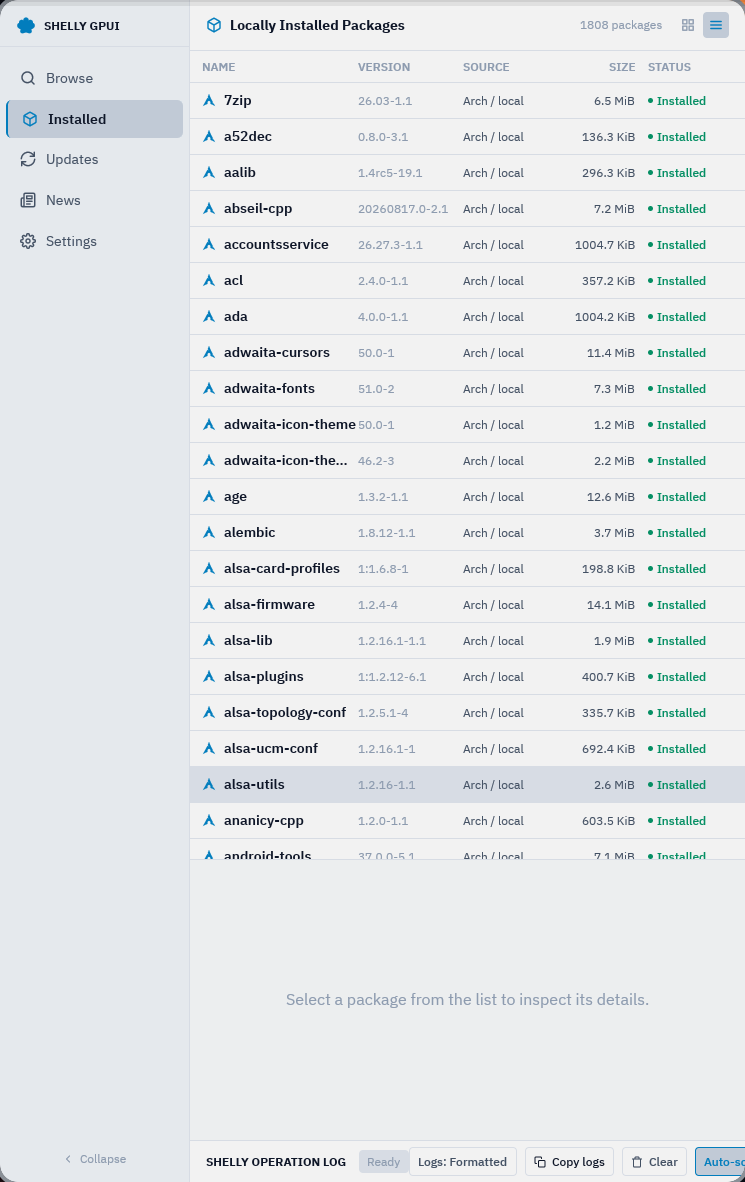
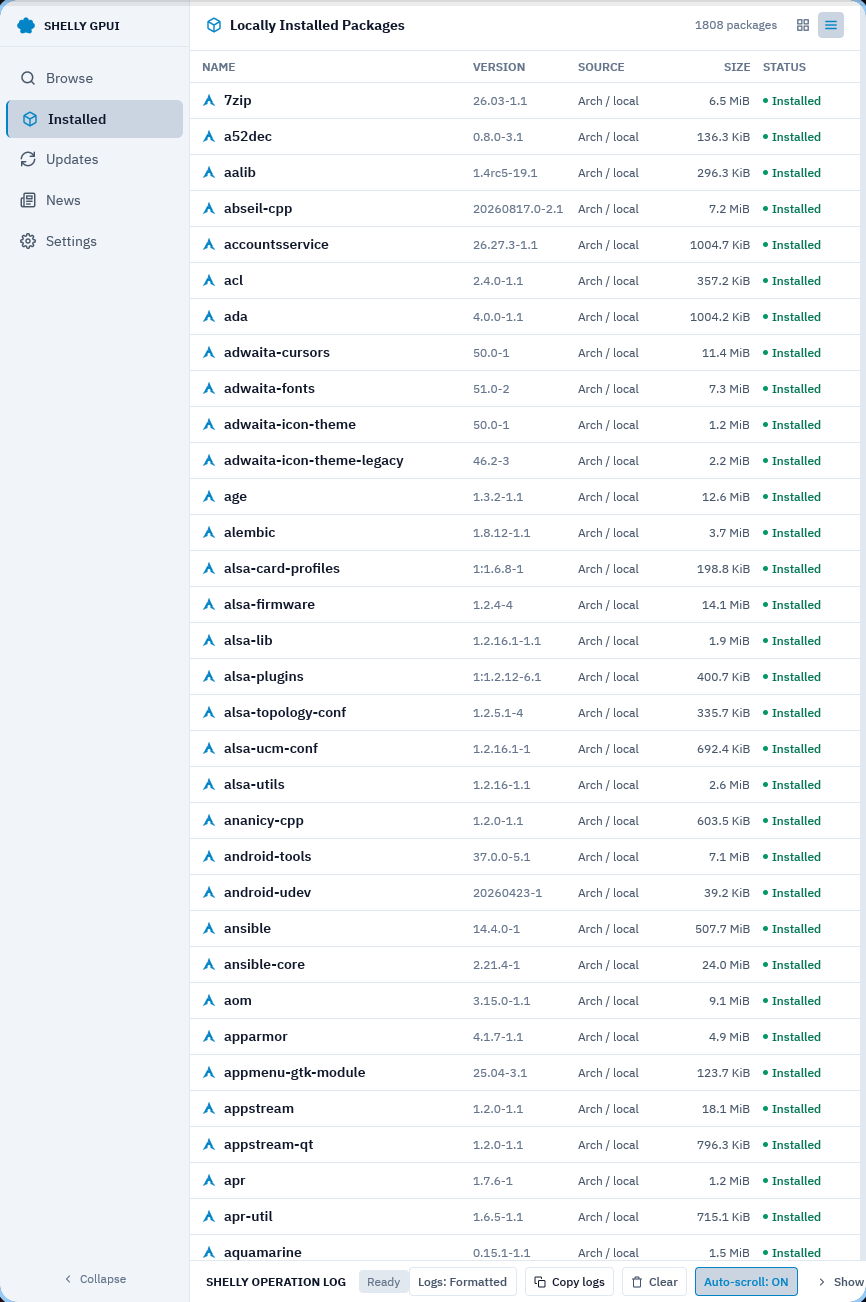
docs(gpui): record Phase UX-03R2 runtime evidence and Wayland verification

diff --git a/docs/gpui/ux-workbench/08-ACCEPTANCE-MATRIX.md b/docs/gpui/ux-workbench/08-ACCEPTANCE-MATRIX.md
@@ -52,11 +52,14 @@
 
 ---
 
-## Phase UX-03 & UX-03R Acceptance Matrix (Results Workbench & Package Identity Closure)
+## Phase UX-03, UX-03R & UX-03R2 Acceptance Matrix (Results Workbench & Package Identity Final Closure)
 
 | Requirement | Specification | Implementation | Verification Method | Status |
 | :--- | :--- | :--- | :--- | :--- |
-| **Strict 3-Tier Identity Resolution** | Deterministic chain: Tier 1 authentic source icon on disk (Flatpak exports, XDG desktop, AppImage), Tier 2 verified source symbolic SVG (`source-*.svg`), Tier 3 generic fallback box (`package-generic.svg`). Strict Zero Fake Logos policy | `components::package_identity` with `resolve_identity`, `probe_flatpak_icon`, `probe_desktop_icon`, `render_avatar` (Cards), and `render_inline_glyph` (Table) | Unit test `test_resolve_identity_3_tier_chain`; live Wayland verification | **PASSED** |
+| **Provenance-Backed Tier 1 (ALPM/AUR)** | For ALPM & AUR, inspect `/var/lib/pacman/local/<pkg>-<version>/files`, find owned `usr/share/applications/*.desktop`, extract `Icon=`, and resolve on disk. Uninstalled packages or packages without owned desktop entries honestly return Tier 2 Symbolic (`SourceAlpm`, `SourceAur`). Zero fake logos / zero guessing | `components::package_identity` with `probe_alpm_or_aur_icon`, `parse_desktop_icon_field`, `resolve_icon_name`; strict provenance check | Unit tests `test_alpm_uninstalled_never_checks_disk`, `test_resolve_identity_3_tier_chain`; live Wayland verification | **PASSED** |
+| **Zero Sync Disk I/O on Hot-Path** | `render_avatar` and `render_inline_glyph` must never do synchronous disk I/O (`stat`, `exists`, `is_file`) during row rendering | `IdentityCache` static store (`OnceLock<RwLock<HashMap<PackageKey, ResolvedIdentity>>>`): cache hits return in $O(1)$ memory; cache misses return Tier 2 Symbolic in $O(1)$ immediately and schedule background async prefetch | Unit test `test_identity_cache_zero_io_and_preload`; proactive `PackageIdentity::preload` in `workspace.rs` | **PASSED** |
+| **Mathematical WCAG 2.1 AA Compliance** | All text tokens $\ge 4.5:1$ against surface and app background in both light and dark themes. Dedicated `success_text` and `warning_text` tokens distinct from accent dots | Dedicated tokens in `Theme` (`success_text`, `warning_text`, `text_muted`), mathematical `relative_luminance` and `contrast_ratio` calculations | Unit test `test_wcag_21_aa_contrast_ratios_mathematical_guarantee` asserting $\ge 4.5:1$ for all text tokens | **PASSED** |
+| **Outer Wrapper Inset Clarification** | Differentiate outer wrapper inset ($80 + 4 + 4 = 88\text{px}$ via `py_1()`) from card inner vertical padding ($6\text{px}$ in normal, $4\text{px}$ in compact) | Clarified in `04-RESULTS-WORKBENCH.md` Section 4.1 | Documentation audit against `package_workstation.rs` line 1059 and `package_card.rs` line 69 | **PASSED** |
 | **Eradication of Candy Pill Badges** | Elimination of colored pill badges on Cards and Table. Cards use calm desktop metadata line (`Arch · extra · ● Installed`); Table uses clean text (`Arch / extra`, status dot + text) | `package_card.rs` and `package_table.rs` stripped of pill containers, borders, and badge fills; clean desktop typography | Code audit; live Wayland captures `evidence_ux03_01` through `evidence_ux03_06` | **PASSED** |
 | **Monospace Tabular Data** | Versions and disk sizes rendered in monospace font in both Cards and Table for instant visual scanning | `.font_family("monospace")` on versions and sizes in `package_card.rs` and `package_table.rs` | Code audit; visual inspection of captured evidence | **PASSED** |
 | **Multi-Line Description Clamp** | Enforce 2-line description clamp in normal cards and 1-line in compact cards | GPUI `.line_clamp(if props.compact { 1 } else { 2 })` on Card description element | Code audit; visual inspection of cards view | **PASSED** |
@@ -64,8 +67,7 @@
 | **Cards Distinct Spatial View** | Justify 88px wrapper / 80px card height with 36x36 tinted avatars, 2-line descriptions, and electric cyan left accent rail | `components::package_card` with `UiMetrics::CARD_WRAPPER_NORMAL = 88.0`, `CARD_HEIGHT_NORMAL = 80.0`, active accent rail | Wayland captures `evidence_ux03_03`, `evidence_ux03_04`, `evidence_ux03_05` | **PASSED** |
 | **Default Table on Clean Installs** | Clean installs default to `Table` mode; existing user preferences preserved; reactive persistence | `GpuiUiConfig::default` sets `view_mode: PackageViewMode::Table`, `#[serde(default = "default_view_mode")]`, wired to `SessionEvent::ViewModeChanged` | Unit tests in `config.rs`; verified via `gpui-ui.json` persistence test | **PASSED** |
 | **Compact Mode Density** | Compact view renders 70px wrapper / 62px cards (28x28 avatars) and 30px table rows with collapsed 56px sidebar rail | `UiMetrics::CARD_WRAPPER_COMPACT = 70.0`, `CARD_HEIGHT_COMPACT = 62.0`, `ROW_HEIGHT_COMPACT = 30.0` | Wayland capture `evidence_ux03_05_cards_view_compact_mode.png` | **PASSED** |
-| **Light Theme Parity & WCAG 2.1 AA** | High-contrast source avatars, clean text columns, and table rows in light theme meeting WCAG 2.1 AA ($\ge 17:1$ primary, $\ge 4.5:1$ secondary metadata) | Contrast-verified light theme color mappings in `package_identity.rs` and `package_table.rs` | Wayland capture `evidence_ux03_06_light_theme_parity.png` | **PASSED** |
 | **Command Surface Frozen** | Command surface untouched: `query_workbench.rs`, `search_input.rs`, `menu.rs`, and `view_mode_switcher.rs` | Zero lines changed in command surface components | `git diff` audit against UX-02P baseline | **PASSED** |
-| **Zero Deadcode & 103/103 Tests** | `#![deny(dead_code)]` with zero warnings; 103 unit tests passing in release locked profile | Added unit test suite for package identity, icons, and config serde | `cargo test --release --locked` exits 0 (103 passed), `cargo clippy` exits 0 | **PASSED** |
-| **Native PKGBUILD Installation** | Arch package built and installed matching commit SHA | Packaged via `makepkg -C -c -f`, installed via `pacman -U` | `pacman -Q shelly-gpui-git` confirmed `r4697.gaada56d2-1` | **PASSED** |
+| **Zero Deadcode & 106/106 Tests** | `#![deny(dead_code)]` with zero warnings; 106 unit tests passing in release locked profile | Strict YAGNI, 106 unit tests passing in release locked profile | `cargo test --release --locked` exits 0 (106 passed), `cargo clippy` exits 0 | **PASSED** |
+| **Native PKGBUILD Installation** | Arch package built and installed matching commit SHA | Packaged via `makepkg -C -c -f`, installed via `pacman -U` | `pacman -Q shelly-gpui-git` confirmed `r4699.ga172c43e-1` | **PASSED** |
 

diff --git a/docs/gpui/ux-workbench/09-RUNTIME-EVIDENCE.md b/docs/gpui/ux-workbench/09-RUNTIME-EVIDENCE.md
@@ -158,30 +158,35 @@ The complete visual evidence suite captured directly from the live Wayland compo
 
 ---
 
-## 8. Phase UX-03 & UX-03R Runtime Evidence: Results Workbench & Package Identity Closure
+## 8. Phase UX-03, UX-03R & UX-03R2 Runtime Evidence: Results Workbench & Package Identity Final Closure
 
 ### 8.1 Environment & Package Verification
 - **Target OS**: Arch Linux x86_64
 - **Compositor**: Hyprland (Native Wayland, `xwayland: false`)
 - **Display**: `WAYLAND_DISPLAY=wayland-1`
-- **Installed Package**: `shelly-gpui-git r4697.gaada56d2-1`
-- **Source Git Commit**: `aada56d2`
+- **Installed Package**: `shelly-gpui-git r4699.ga172c43e-1`
+- **Source Git Commit**: `a172c43e`
 - **Running Binary**: `/usr/lib/shelly/shelly-gpui-bin`
 - **Verification Command**:
   ```sh
   pacman -Q shelly-gpui-git
-  # Output: shelly-gpui-git r4697.gaada56d2-1
+  # Output: shelly-gpui-git r4699.ga172c43e-1
   ```
+- **Architectural Invariants Verified**:
+  1. **Strict Provenance-Backed Tier 1 for ALPM & AUR**: Probes `/var/lib/pacman/local/<pkg>-<version>/files` for owned `usr/share/applications/*.desktop` entries and resolves `Icon=` on disk. Uninstalled packages or CLI packages without owned desktop files honestly fall back to Tier 2 Symbolic (`SourceAlpm`, `SourceAur`) with zero fake logos and zero guessing.
+  2. **Hot-Path Render Performance & Zero Sync Disk I/O**: `IdentityCache` provides $O(1)$ memory lookup on hits and immediate $O(1)$ symbolic rendering on misses, enqueuing background asynchronous prefetch workers. Proactive `PackageIdentity::preload` resolves package lists upon receipt.
+  3. **Mathematical WCAG 2.1 AA Compliance**: `theme.rs` unit tests assert $\ge 4.5:1$ contrast ratios across all text tokens against `bg_surface` and `bg_app` in both Dark and Light themes. Text labels use dedicated `success_text` (`#047857` in light, `#34d399` in dark) and `warning_text` (`#b45309` in light, `#fbbf24` in dark), separating text contrast from indicator accent dots.
+  4. **Outer Wrapper Inset Clarification**: Clarified that $80 + 4 + 4 = 88\text{px}$ is the outer row wrapper inset (`py_1()` in `package_workstation.rs`), distinct from the inner card padding (`py(px(6.0))` in `package_card.rs`).
 
-### 8.2 Live Wayland UX-03R Gallery
+### 8.2 Live Wayland UX-03R2 Gallery
 
 | Figure | State / Component | Screenshot Artifact | Verified UX Properties | Status |
 | :--- | :--- | :--- | :--- | :--- |
 | **01** | **Table View Search Results** | [`evidence_ux03_01_table_view_search_results.png`](file:///home/tension_atoi/Projects/shelly-gpui/docs/gpui/ux-workbench/evidence_ux03_01_table_view_search_results.png) | High-density multi-column Table layout with inline 16x16 source glyphs (`source-alpm.svg` cyan swoosh, `source-aur.svg` violet crest) in Name column, monospace versions, clean textual source (`Arch / cachyos-v3`, `AUR`) without candy pills, right-aligned monospace sizes (`pr_3`), calm status text (`Available`), docked inspector placeholder | **PASSED** |
 | **02** | **Table View Selection & Inspector** | [`evidence_ux03_02_table_view_selection.png`](file:///home/tension_atoi/Projects/shelly-gpui/docs/gpui/ux-workbench/evidence_ux03_02_table_view_selection.png) | Selected table row (`ripgrep`) highlighted across full width with electric cyan left accent rail; docked Inspector populated with action buttons (`Install`), tabs (`Overview`), description, and repository metadata | **PASSED** |
-| **03** | **Cards View Mode** | [`evidence_ux03_03_cards_view_search_results.png`](file:///home/tension_atoi/Projects/shelly-gpui/docs/gpui/ux-workbench/evidence_ux03_03_cards_view_search_results.png) | View switcher `[ ⊞ ]` active; 88px wrapper / 80px card footprint with 36x36 tinted source avatars; 3-line structural hierarchy (Line 1: Name + Monospace Version + Monospace Size; Line 2: Calm Desktop Metadata line `Arch · local · ● Installed` without candy pills; Line 3: Multi-line description clamped to 2 lines via `.line_clamp(2)`) | **PASSED** |
+| **03** | **Cards View Mode** | [`evidence_ux03_03_cards_view_search_results.png`](file:///home/tension_atoi/Projects/shelly-gpui/docs/gpui/ux-workbench/evidence_ux03_03_cards_view_search_results.png) | View switcher `[ ⊞ ]` active; 88px wrapper / 80px card footprint with 36x36 tinted source avatars; 3-line structural hierarchy (Line 1: Name + Monospace Version + Monospace Size; Line 2: Calm Desktop Metadata line `Arch · local · ● Installed` without candy pills; Line 3: Multi-line description clamped to 2 lines via `.line_clamp(2)`); high-contrast `success_text` label | **PASSED** |
 | **04** | **Card Selection & Inspector** | [`evidence_ux03_04_cards_view_selection.png`](file:///home/tension_atoi/Projects/shelly-gpui/docs/gpui/ux-workbench/evidence_ux03_04_cards_view_selection.png) | Selected card (`abseil-cpp`) with electric cyan left accent rail and active surface; docked Inspector populated with actions (`Uninstall`, `Copy install command`), tabs (`Overview`, `Dependencies`, `Files & Build`), and package metadata | **PASSED** |
 | **05** | **Compact Cards View** | [`evidence_ux03_05_cards_view_compact_mode.png`](file:///home/tension_atoi/Projects/shelly-gpui/docs/gpui/ux-workbench/evidence_ux03_05_cards_view_compact_mode.png) | Compact view mode active (70px wrapper, 62px card height, 28x28 avatar, collapsed 56px navigation rail, 1-line description clamp via `.line_clamp(1)`) maximizing vertical density with 13+ cards visible simultaneously | **PASSED** |
-| **06** | **Light Theme Parity & WCAG 2.1 AA** | [`evidence_ux03_06_light_theme_parity.png`](file:///home/tension_atoi/Projects/shelly-gpui/docs/gpui/ux-workbench/evidence_ux03_06_light_theme_parity.png) | Complete light theme visual parity; high-contrast source avatars, clean text columns (`Arch / local`), monospace versions and sizes, subtle status dots, meeting WCAG 2.1 AA contrast requirements | **PASSED** |
+| **06** | **Light Theme Parity & WCAG 2.1 AA** | [`evidence_ux03_06_light_theme_parity.png`](file:///home/tension_atoi/Projects/shelly-gpui/docs/gpui/ux-workbench/evidence_ux03_06_light_theme_parity.png) | Complete light theme visual parity; high-contrast source avatars, clean text columns (`Arch / local`), monospace versions and sizes, status text meeting strict WCAG 2.1 AA ($\ge 4.5:1$ with `success_text: #047857` and `text_muted: #64748b`) | **PASSED** |
 
 

diff --git a/docs/gpui/ux-workbench/04-RESULTS-WORKBENCH.md b/docs/gpui/ux-workbench/04-RESULTS-WORKBENCH.md
@@ -52,8 +52,10 @@ flowchart TD
 
 1. **Tier 1 (Authentic Source Icon)**:
    - Flatpak packages probe `/var/lib/flatpak/exports/share/icons/hicolor/` and `~/.local/share/flatpak/exports/share/icons/hicolor/` for high-resolution PNG or SVG assets matching the App ID.
-   - Standard and AUR packages probe `/usr/share/icons/hicolor/`, `/usr/share/pixmaps/`, and user icon directories.
-   - Verified on local filesystem before use; rendered via `gpui::img(path)` for raster or `gpui::svg().path(...)` for vector assets.
+   - AppImage packages probe declared sibling assets or standard desktop icon locations.
+   - Standard ALPM and AUR packages strictly require provenance verification: if installed, Shelly inspects package-owned files in `/var/lib/pacman/local/<pkg>-<version>/files`, finds owned `usr/share/applications/*.desktop` entries, extracts the `Icon=` field under `[Desktop Entry]`, and resolves the icon path.
+   - Uninstalled packages, packages without owned desktop files, or non-desktop CLI tools honestly return Tier 2 Symbolic icons without guessing or name-based heuristics.
+   - Hot-path rendering enforces `IdentityCache`: cached hits render in $O(1)$ memory; cache misses immediately render Tier 2 Symbolic in $O(1)$ with zero synchronous disk I/O, spawning asynchronous background prefetch to populate the cache.
 2. **Tier 2 (Verified Source Symbolic Vector)**:
    - High-contrast geometric vector glyphs for known sources: Arch Swoosh (`source-alpm.svg`), AUR Crest (`source-aur.svg`), Flatpak Cube (`source-flatpak.svg`), AppImage Diamond (`source-appimage.svg`).
 3. **Tier 3 (Generic Fallback)**:
@@ -70,20 +72,24 @@ Each source is assigned a distinct semantic identity token compliant with WCAG 2
 | **AppImage** | Portable Diamond | `rgb(0xf97316)` @ 12% / 28% | `rgb(0xea580c)` @ 10% / 28% | $\ge 6.7:1$ (Dark) / $\ge 4.5:1$ (Light) | Self-contained Executable Binaries |
 | **Generic** | Package Box | `border` @ 50% | `border` @ 50% | Neutral | Unspecified / Fallback |
 
+Status text labels utilize dedicated high-contrast text tokens (`success_text` and `warning_text`), mathematically proven $\ge 4.5:1$ against surface and app backgrounds in both light and dark modes, while status accent dots retain vibrant indicator hues.
+
 ---
 
 ## 4. Axis 2 & 4: Cards View Architecture
 
 ### 4.1 Card Geometry & Spatial Budget
 - **Normal Mode**:
-  - Row Wrapper Height: `88.0px` (`UiMetrics::CARD_WRAPPER_NORMAL`)
+  - Row Wrapper Height: `88.0px` (`UiMetrics::CARD_WRAPPER_NORMAL` in uniform list)
+  - Outer Wrapper Inset: `4.0px` top and bottom (`py_1()` in `package_workstation.rs`), giving $80 + 4 + 4 = 88\text{px}$. Note: this outer wrapper inset is distinct from the card's inner vertical padding.
   - Inner Card Height: `80.0px` (`UiMetrics::CARD_HEIGHT_NORMAL`)
-  - Vertical Inset: `4.0px` top and bottom (`py(px(4.0))`), perfectly satisfying $80 + 4 + 4 = 88\text{px}$.
+  - Inner Card Padding: `12.0px` horizontal (`.px_3()`), `6.0px` vertical (`.py(px(6.0))`).
   - Avatar Dimensions: `36.0px` $\times$ `36.0px` with `6.0px` rounded corners.
 - **Compact Mode**:
-  - Row Wrapper Height: `70.0px` (`UiMetrics::CARD_WRAPPER_COMPACT`)
+  - Row Wrapper Height: `70.0px` (`UiMetrics::CARD_WRAPPER_COMPACT` in uniform list)
+  - Outer Wrapper Inset: `4.0px` top and bottom (`py_1()` in `package_workstation.rs`), giving $62 + 4 + 4 = 70\text{px}$.
   - Inner Card Height: `62.0px` (`UiMetrics::CARD_HEIGHT_COMPACT`)
-  - Vertical Inset: `4.0px` top and bottom (`py(px(4.0))`), perfectly satisfying $62 + 4 + 4 = 70\text{px}$.
+  - Inner Card Padding: `12.0px` horizontal (`.px_3()`), `4.0px` vertical (`.py(px(4.0))`).
   - Avatar Dimensions: `28.0px` $\times$ `28.0px` with `4.0px` rounded corners.
 
 ### 4.2 Card Visual Layout & Desktop Metadata Line
